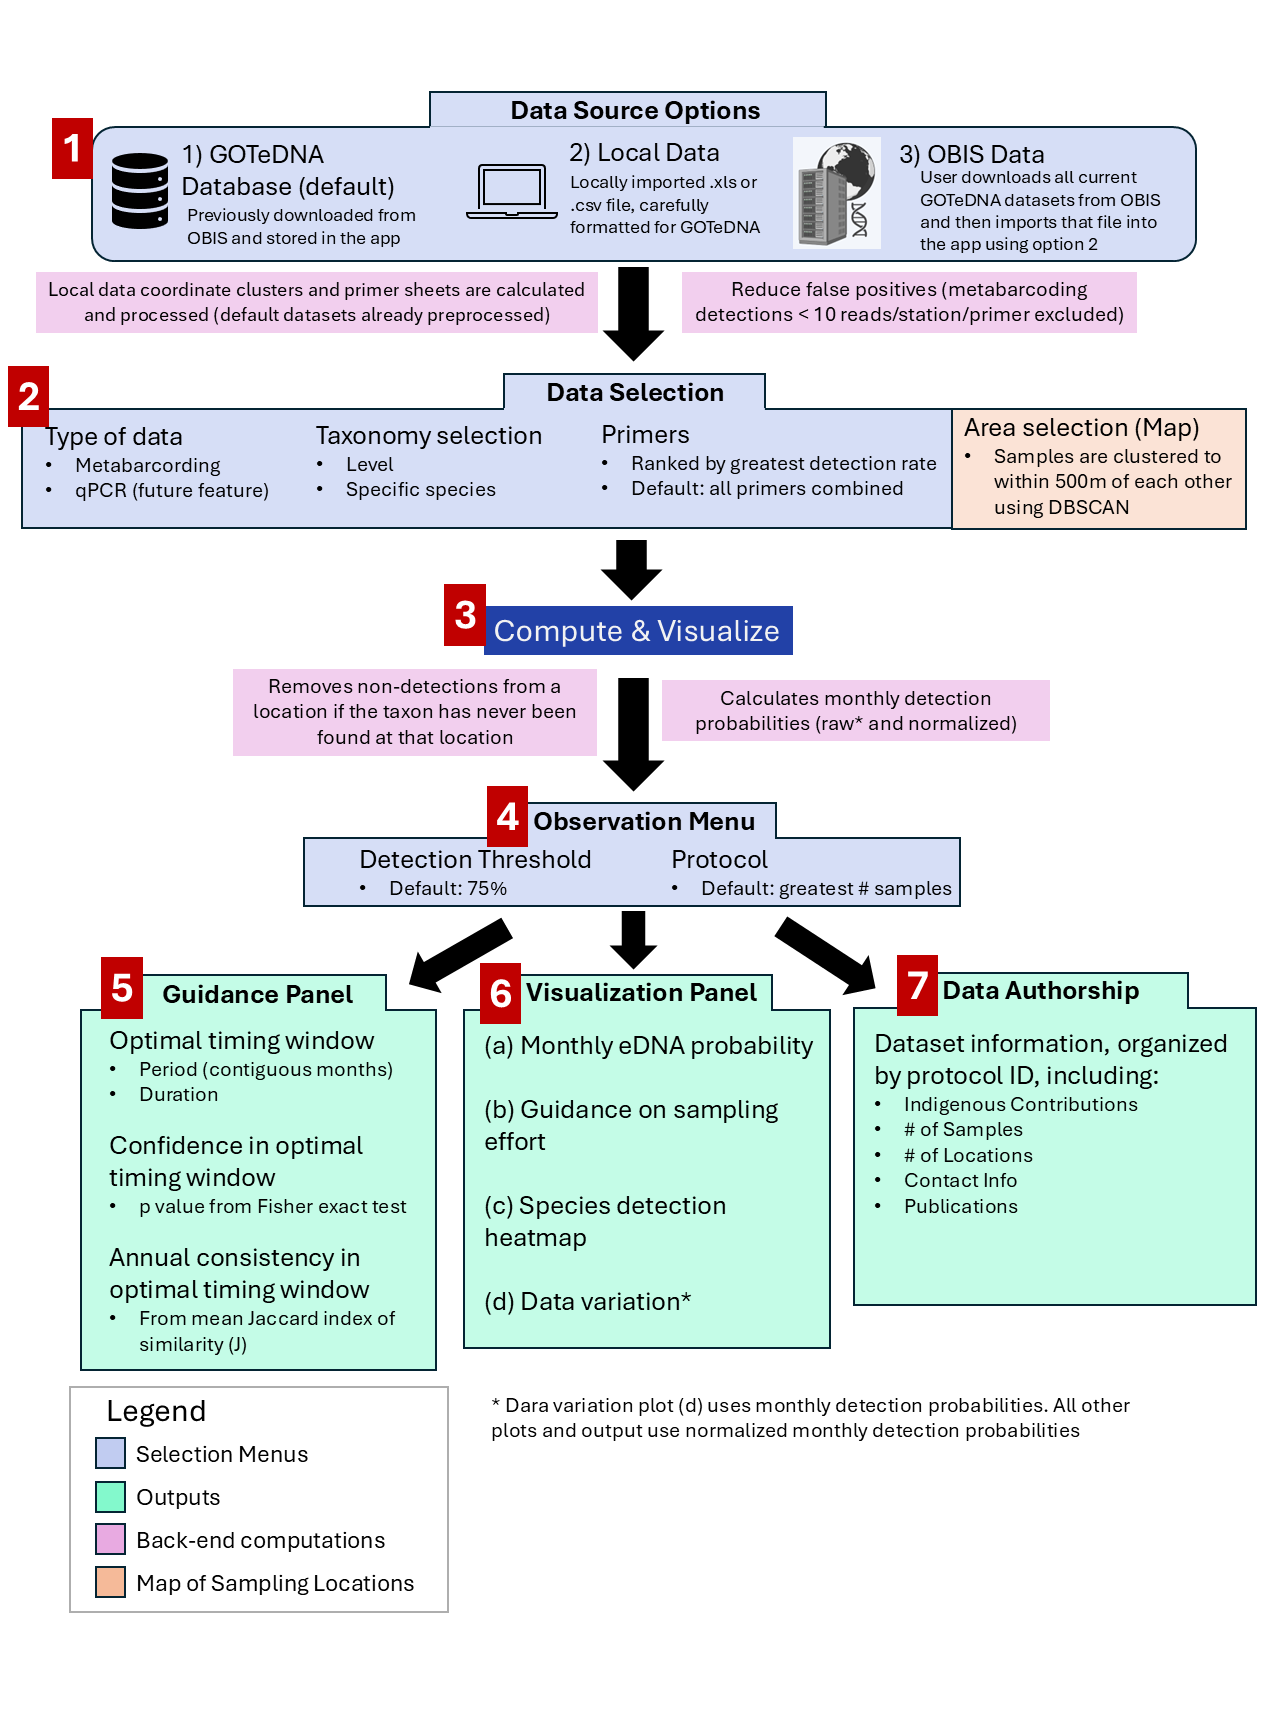
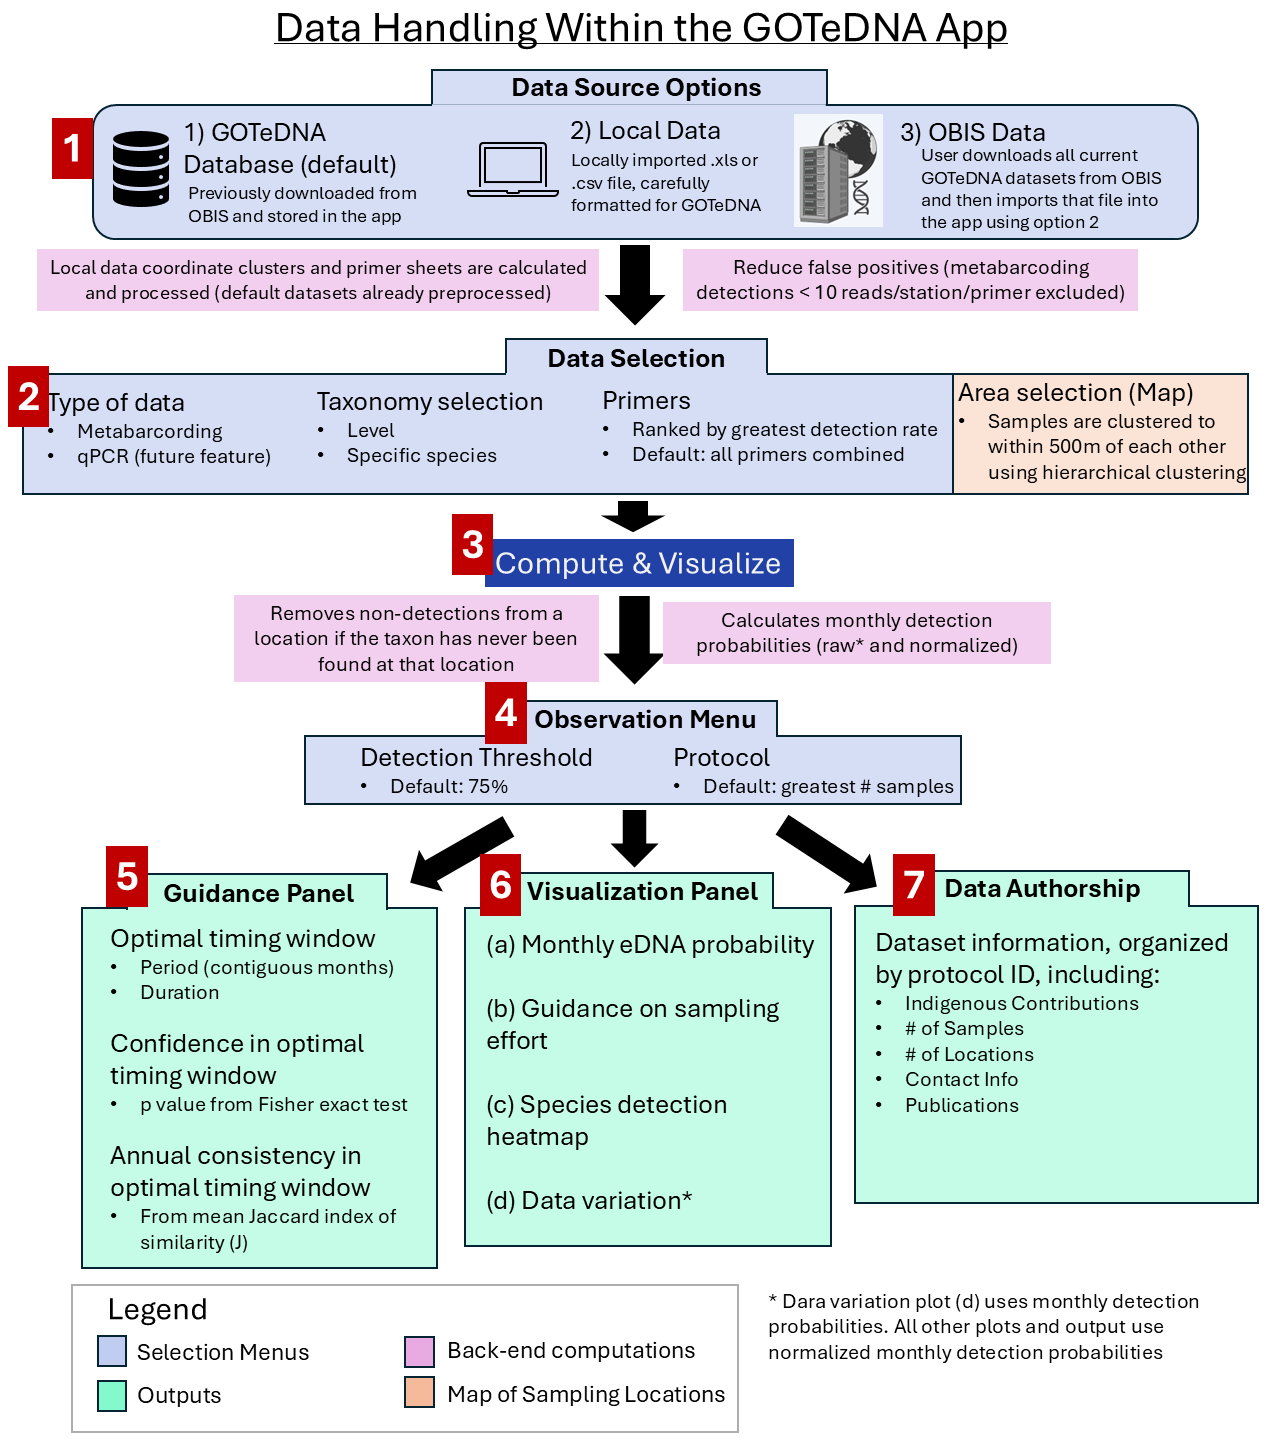
removes zero rows modal and updates some figures

diff --git a/inst/app/www/doc/interp_guide.html b/inst/app/www/doc/interp_guide.html
@@ -1,4 +1,4 @@
-<img src="img/workflow3.png" width="100%" alt="Interpretation Guide Flowchart">
+<img src="img/workflow3a.png" width="100%" alt="Interpretation Guide Flowchart">
         <!--  <p style="font-weight:normal;"> Workflow, including: data sourcing, filtering, data request, data preparation, protocol and threshold selections, calculations, guidance statistics models and visualizations. Grey: interface accessibility; white: user selections; dark blue: backend data filters and calculations; turquoise: outputs.</p>
 -->
 <p>Interpretation guidelines are described within Lacoursière-Roussel, A., Morrison, M. K., Barrett, T. J., Beauchesne, D., Cazelles, K., Chevrinais, M., DiBacco, C.,  Ferchaud, A.-L., Gagné, N.,  Gomez, C., Grey, E. K., Jeffery, N. W., Kinnison, M. T., LeBlanc, F., McBride, M. C., Parent, G., Trudel, M., & Howland, K. (under review). GOTeDNA: a centralized interactive guidance and reporting tool for eDNA. Molecular Ecology Resources. </p>
